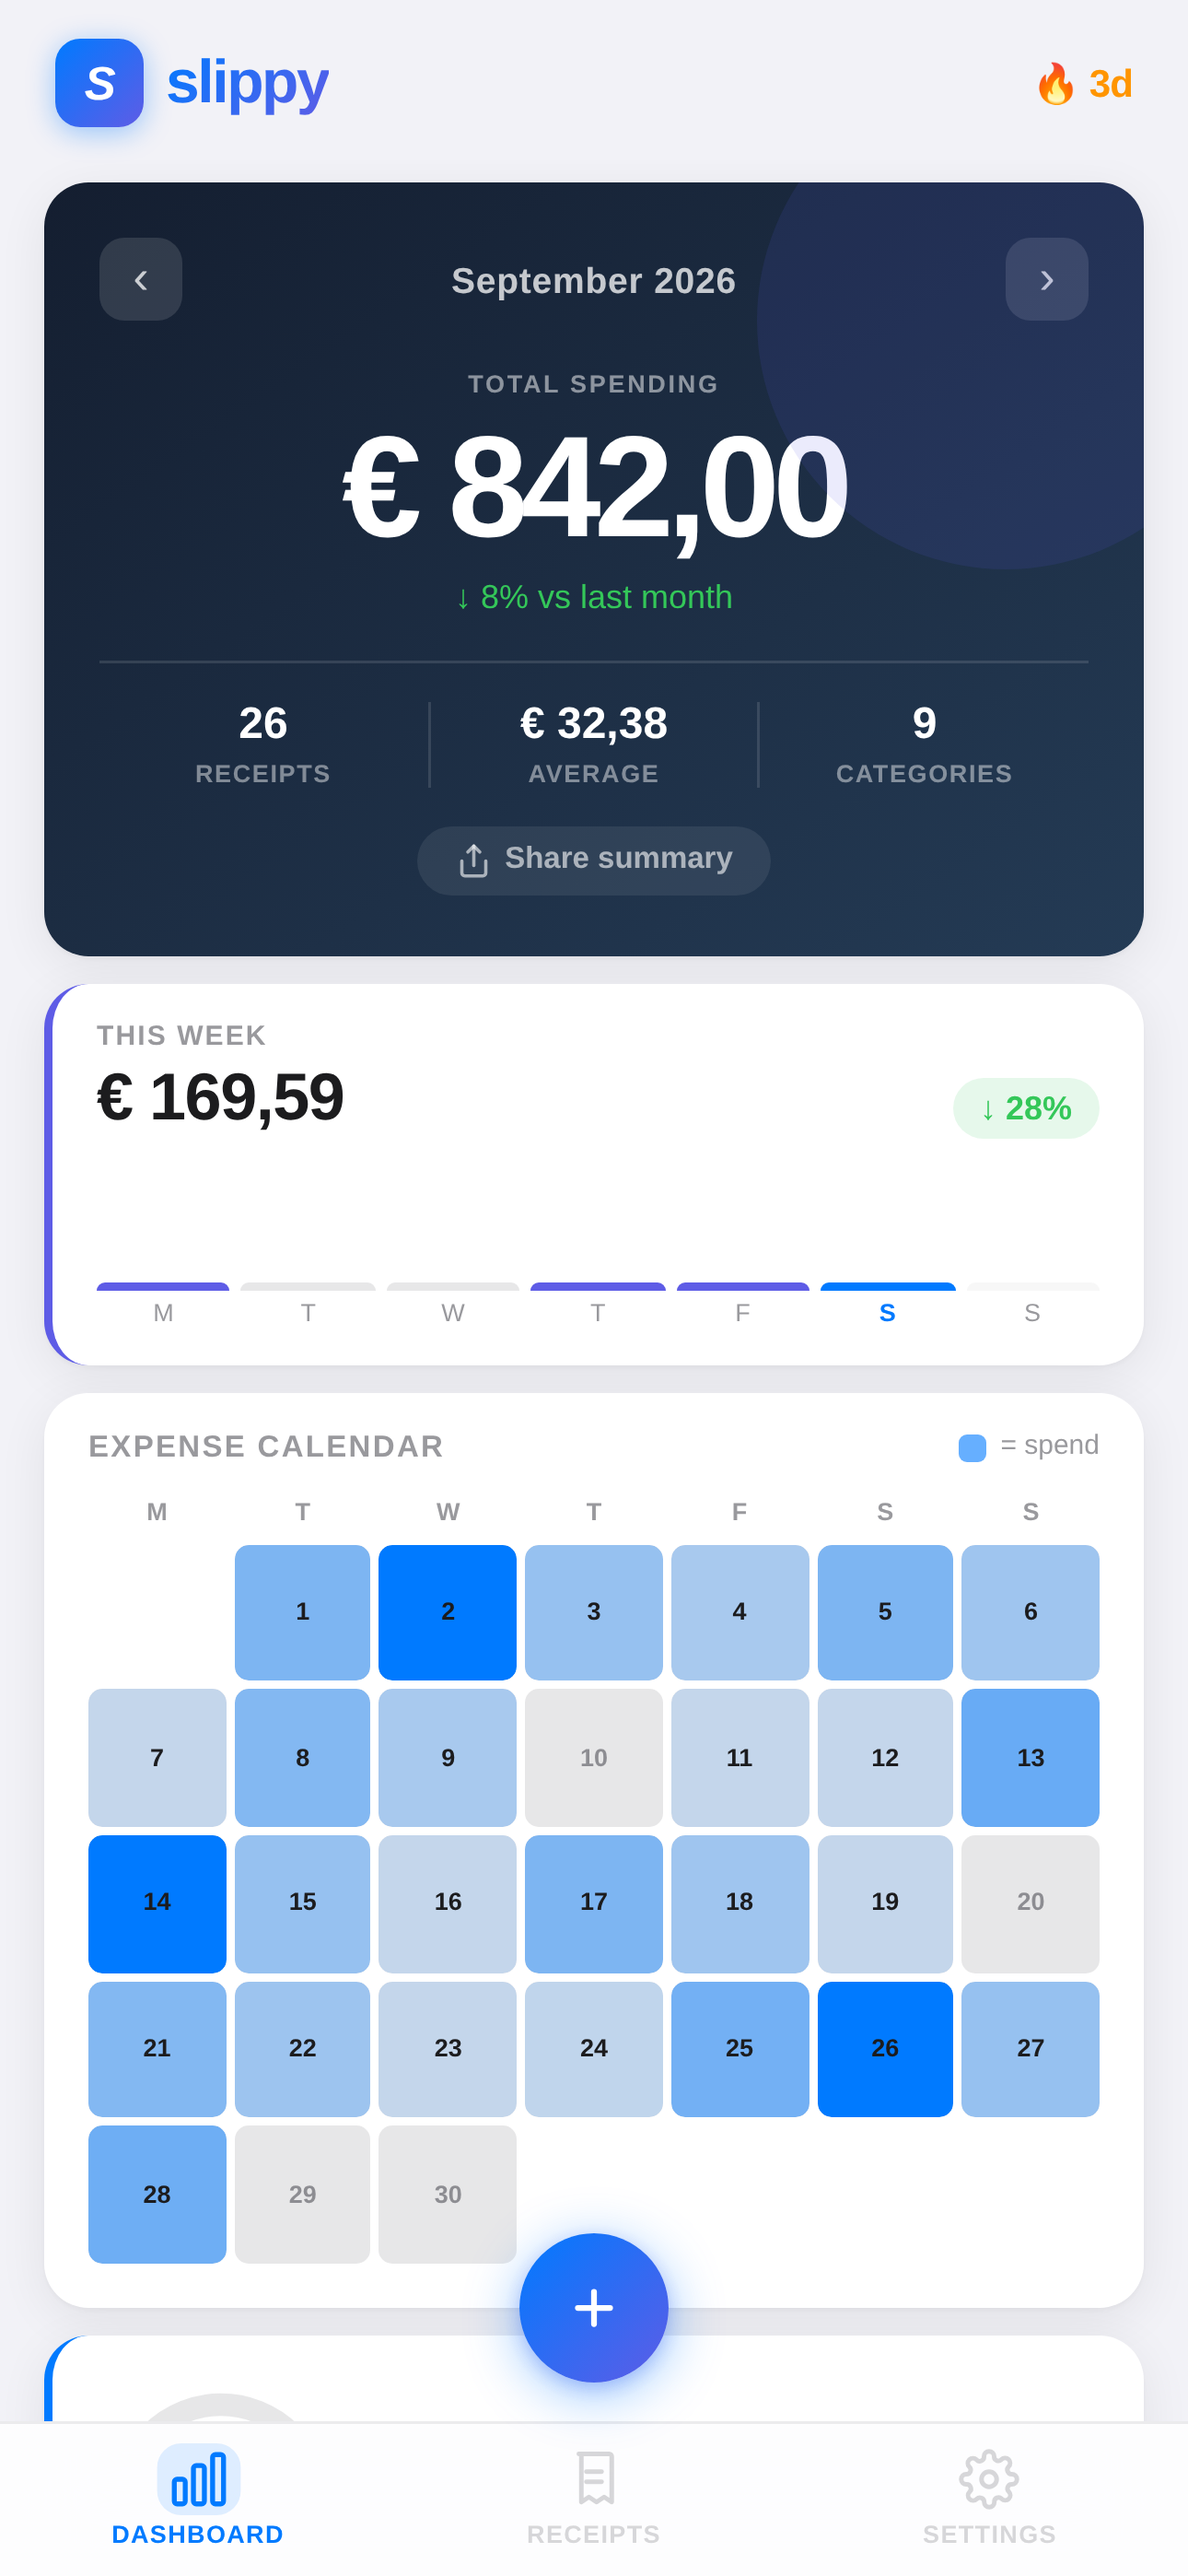
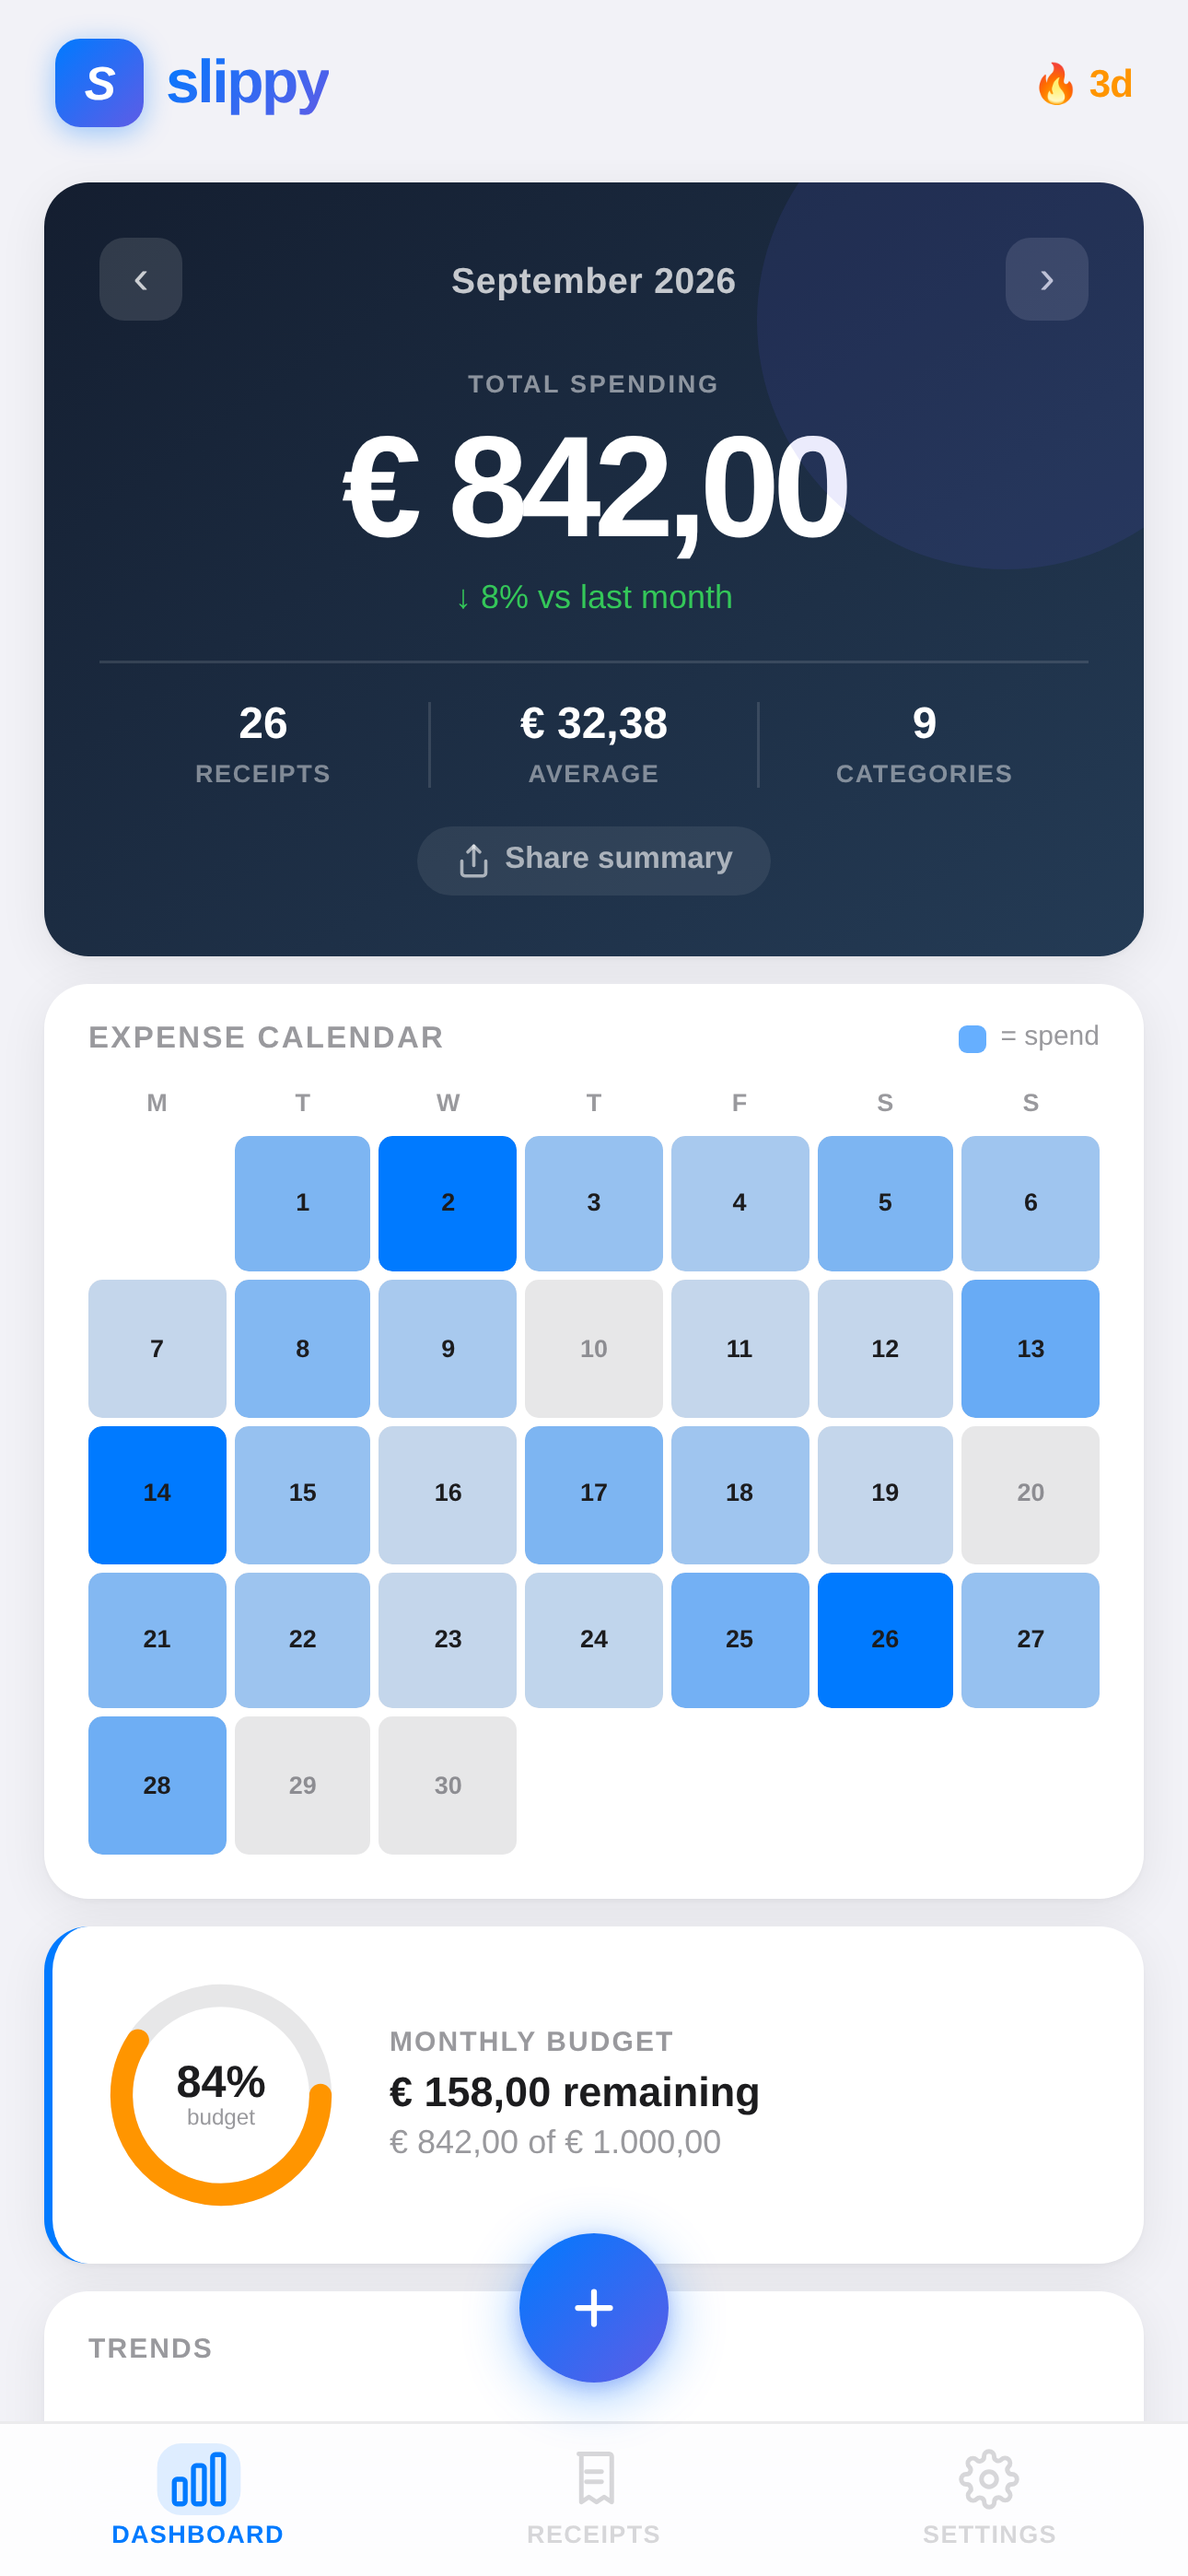
Fix collapsed weekly bar chart; show week card only for current month
Claude-Session: https://claude.ai/code/session_01R7p3HLfGKwRHy37VsbFWEN

diff --git a/docs/index.html b/docs/index.html
@@ -435,7 +435,7 @@ select.finp{-webkit-appearance:none;cursor:pointer}
 .week-amt{font-size:24px;font-weight:700;color:var(--lbl);letter-spacing:-.5px}
 .week-delta-badge{font-size:12px;font-weight:700;padding:4px 10px;border-radius:20px}
 .wd-bars{display:flex;gap:4px;height:56px;align-items:flex-end}
-.wd-col{flex:1;display:flex;flex-direction:column;align-items:center;gap:3px}
+.wd-col{flex:1;height:100%;display:flex;flex-direction:column;align-items:center;gap:3px}
 .wd-bar-wrap{flex:1;display:flex;align-items:flex-end;width:100%}
 .wd-bar{width:100%;border-radius:3px 3px 0 0;min-height:3px;
   transition:height .45s cubic-bezier(.4,0,.2,1)}

diff --git a/docs/app.js b/docs/app.js
@@ -1763,7 +1763,7 @@ function renderDashboard() {
     ${!state.settings.apiKey ? `<p class="welcome-hint">${t('welcome.ai_hint')}</p>` : ''}
   </div>` : '';
 
-  const weekSection    = renderWeekSection(state.receipts);
+  const weekSection    = sameMonth(mo, new Date()) ? renderWeekSection(state.receipts) : '';
   const budgetSection  = renderBudgetSection(total, state.settings.budget || 0);
   const insights       = calcInsights(thisRx, prevRx, mo);
   const insightSection = renderInsightsSection(insights);

diff --git a/docs/sw.js b/docs/sw.js
@@ -1,4 +1,4 @@
-const CACHE = 'slippy-v87';
+const CACHE = 'slippy-v88';
 const CORE  = ['./', './index.html', './app.js', './manifest.json', './icon-192.png', './icon-512.png', './privacy.html'];
 
 self.addEventListener('install', e => {
